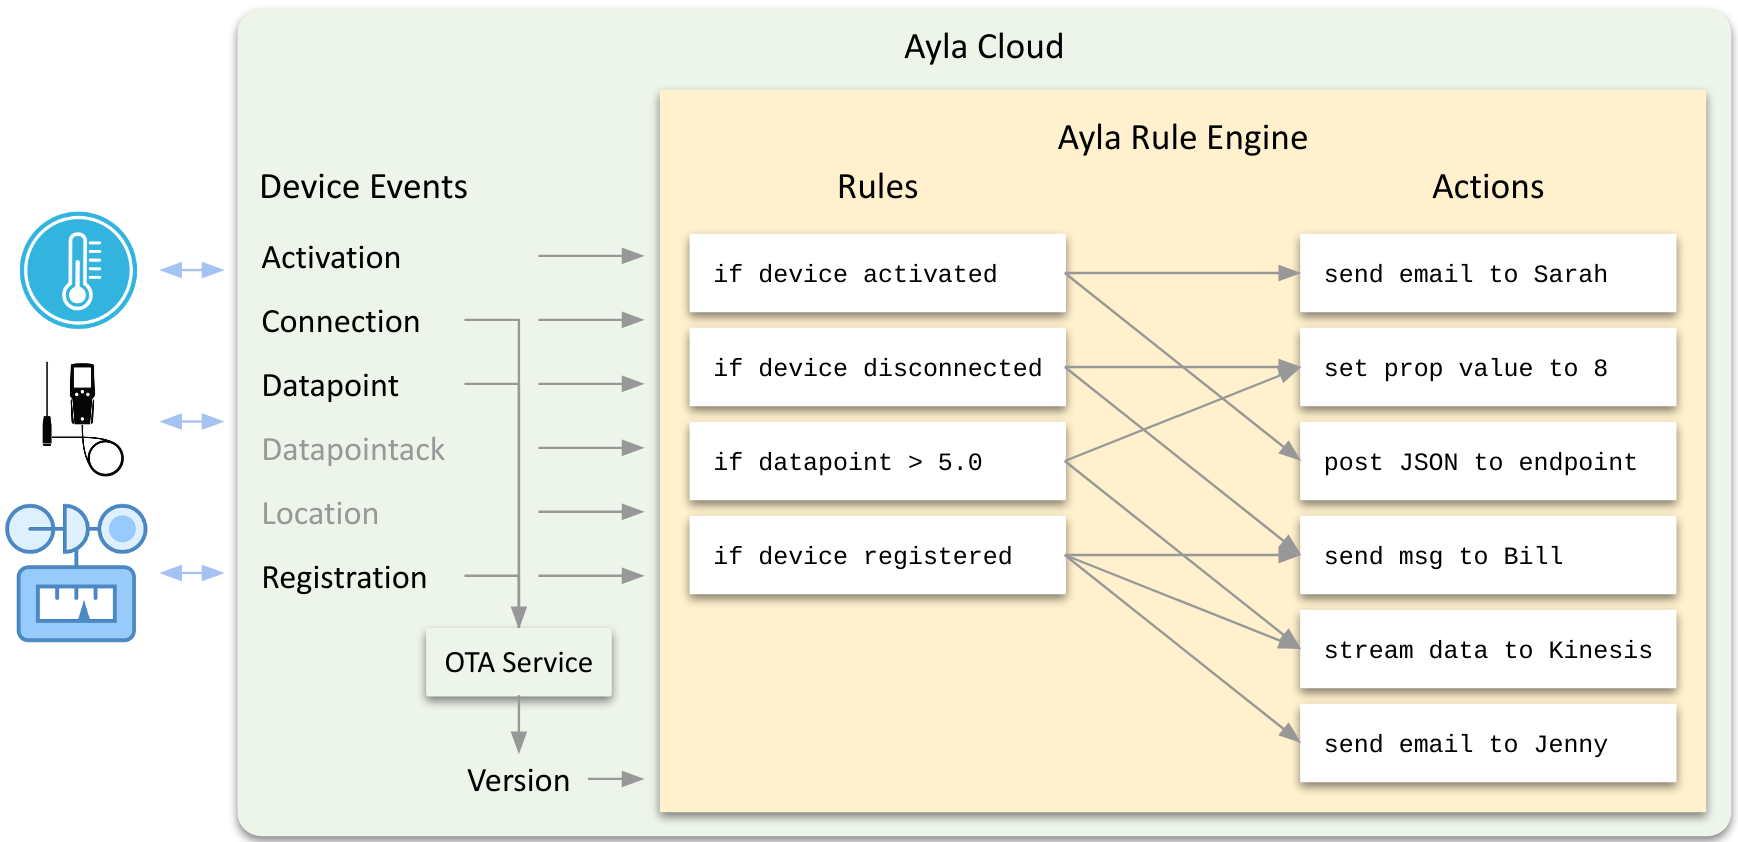
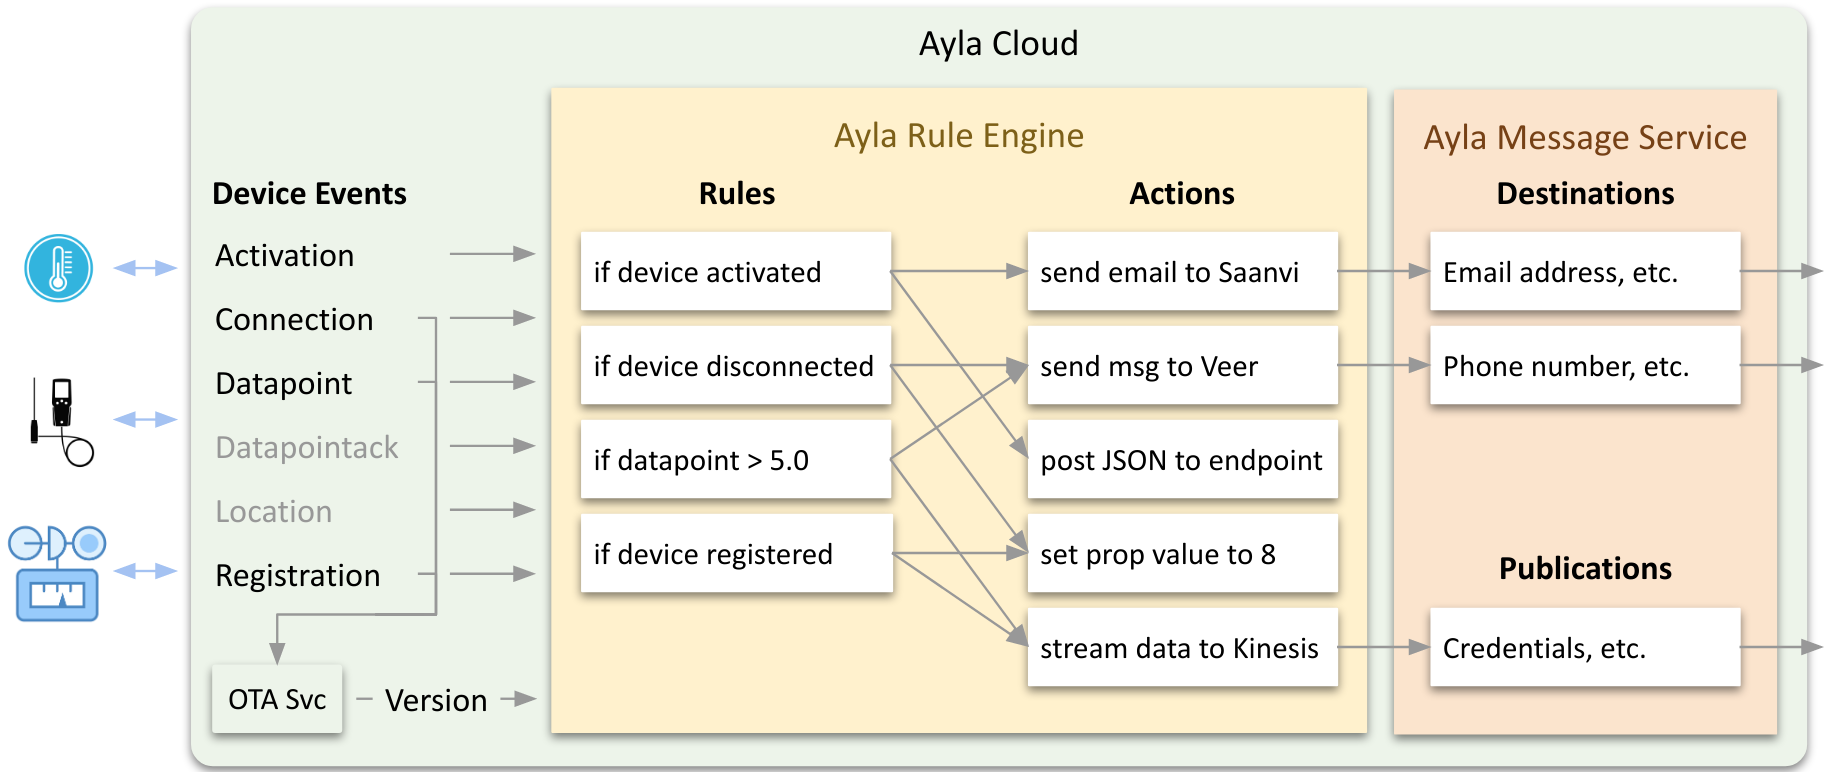
Small changes.

diff --git a/src/tech-notes/00000013/index.md b/src/tech-notes/00000013/index.md
@@ -7,11 +7,9 @@ lastModifiedDate: August 10, 2020
 classesFromPage: has-pagebar
 ---
 
-**Under Construction**
-
 This Tech Note introduces the Ayla Rule Engine (ARE) which, once populated with user-defined rules and actions, evaluates device events in light of rules, and, when rule conditions warrant, performs the associated actions. Consider the following diagram:
 
-<img src="ayla-rule-engine.png" width="750" height="363">
+<img src="ayla-rule-engine.png" width="800" height="338">
 
 As illustrated in the diagram, the Ayla Cloud defines device state changes as device events. Subsystems like the OTA Service may transform these primary events into derived events. The `version` event, for example, indicates that a device's firmware needs to be updated. Ayla passes these events to ARE which leverages user-defined rules to make sense of them. Rules always evaluate to true or false. If a rule evaluates to true, ARE performs the action(s) associated with the rule. In the diagram, for example, ARE sends an email to Sarah and posts data to an endpoint when a particular device becomes active. Rules use Ayla Rule Expression Syntax (ARES) to encode conditional expressions. Actions also use ARES to define parameters. Developers can work with rules and actions via the Rules Service APIs described in the [API Browser](https://docs.aylanetworks.com/cloud-services/api-browser/). OEM users can also work with rules and actions, to a limited extent, via the Ayla Developer Portal.
 
@@ -32,66 +30,124 @@ The device in the diagram includes two properties, `Blue_button` and `Blue_LED`,
 1. The first rule's condition is **not** met, so it does not perform its two associated actions. 
 1. The second rule's condition **is** met, so it performs its two associated actions, sending an email to Yan, and setting `Blue_LED` to 1.
 
-## Creating actions
+## Create actions
 
-An **action** defines a task like `set Blue_LED to 1`. ARE supports several types of actions including `DATAPOINT` and `AMS_EMAIL`. `AMS` stands for Ayla Message Service. To create the actions for the example, follow these steps:
+An **action** defines a task like `set Blue_LED to 0`. ARE supports several types of actions including `DATAPOINT` and `AMS_EMAIL`. (`AMS` stands for Ayla Message Service.) To create the actions for the example, start with these steps:
 
 1. Open the [API Browser](https://docs.aylanetworks.com/cloud-services/api-browser/) in another tab.
 1. Click Accounts, choose a Region, enter email, password, app_id, and app_secret, click Get Tokens, and close the tab.
-1. Click Devices, select a device, and ensure that the list of properties includes `cmd`, `log`, `Blue_LED`, and `Green_LED`.
+1. Click Devices, select a device, and ensure that the list of properties includes `Blue_button`, and `Blue_LED`.
 1. Click Rules Service, and expand `createAction`.
-1. Copy and paste the following into the Request Data textbox, and replace the DSN. You can use `true` or `1` interchangeably.
+
+### Create DATAPOINT actions
+
+1. Copy and paste the following into the Request Data textbox, and replace the DSN. You can use `false` or `0`.
     ```
     {
       "action": {
-        "name": "Set Blue_LED true",
+        "name": "Set Blue_LED 0",
         "type": "DATAPOINT",
         "parameters": {
-          "datapoint": "DATAPOINT(AC000W000000001, Blue_LED) = 1"
+          "datapoint": "DATAPOINT(AC000W006512709, Blue_LED) = 0"
         }
       }
     }
     ```
-    Action parameters define the task. The key, `datapoint`, indicates the type, and the value specifies the task itself:
+    Action `parameters` key, `datapoint`, indicates the type, and the value specifies the task:
     ```
-    DATAPOINT(AC000W000000001, Blue_LED) = 1
+    DATAPOINT(AC000W000000001, Blue_LED) = 0
     ```
-    This ARES expression means "set the `Blue_LED` property on devive `AC000W000000001` to 1.
+    This ARES expression means "set the `Blue_LED` property on devive `AC000W000000001` to 0.
 1. Click Run. The Status Code should indicate 201.
-1. Under Response Data, click `show` to see results.
-1. Repeat to create the other three actions.
-1. Expand `getActions`, click Run, click Show, and find the `action_uuid` for each action. You will need these to create rules below. You might copy and paste the ids into a text file like this:
-    ```
-    Set Blue_LED  true   a1000000-0000-0000-0000-00000000001a
-    Set Blue_LED  false  a0000000-0000-0000-0000-00000000000a
-    Set Green_LED true   b1000000-0000-0000-0000-00000000001b
-    Set Green_LED false  b0000000-0000-0000-0000-00000000000b
-    ```
-
-## Creating rules
-
-A **rule** associates a rule expression (that evaluates to `true` or `false`, like `log == 'off'`) with a list of actions to perform if the expression evaluates to `true`. To create the rules for the example, follow these steps:
-
-1. Expand `createRule`. 
-1. Copy and paste the following into the Request Data textbox, and replace the DSN and action_ids:
+1. Create another action that sets `Blue_LED` to 1:
     ```
     {
-      "rule": {
-        "name": "log == on",
-        "description": "",
-        "expression": "str_equals(DATAPOINT(AC000W000000001,log),'on')",
-        "action_ids": [
-          "a1000000-0000-0000-0000-00000000001a",
-          "b1000000-0000-0000-0000-00000000001b"
-        ]
+      "action": {
+        "name": "Set Blue_LED 1",
+        "type": "DATAPOINT",
+        "parameters": {
+          "datapoint": "DATAPOINT(AC000W006512709, Blue_LED) = 1"
+        }
       }
     }
     ```
-    A rule expression specifies a condition. Expressions that evaluate strings often contain functions like `str_equals` or `str_contains`. Other expressions may not contain functions.
-1. Click Run. The Status Code should indicate 201.
-1. Under Response Data, click `show` to see results.
-1. Repeat to create the other rule.
-1. Expand `getRules`, click Run, click Show, and view each rule object which includes a `rule_uuid` and an array of `action_ids`.
+
+### Create destination
+
+```
+{
+  "destination": {
+    "type": "email",
+    "body": "Destination Body",
+    "deliver_to": "anonz3000@gmail.com",
+    "title": "Destination Title",
+    "provider": "smtp",
+    "user_message": "Desintation User Message",
+    "user_name": "My Name"
+  }
+}
+```
+
+### Create AMS_EMAIL action
+
+```
+{
+  "action": {
+    "name": "Email to Self",
+    "type": "AMS_SMS",
+    "is_abstract": false,
+    "parameters": {
+      "max_actions_per_minute": "5",
+      "foo": "bar",
+      "body": "foo"
+    },
+    "destination_ids": ["a9077ad5-9675-4758-965e-fd49deb70a12"]
+  }
+}
+```
+
+### View actions
+
+Expand `getActions`, click Run, click Show, and find the `action_uuid` for each action. You will need these to create rules below. You might copy and paste the ids into a text file like this:
+
+```
+Name             action_uuid
+Set Blue_LED 0   a1000000-0000-0000-0000-0000000000a1
+Set Blue_LED 1   b2000000-0000-0000-0000-0000000000b2
+Send email       c3000000-0000-0000-0000-0000000000c3
+```
+
+## Creating rules
+
+A **rule** associates a rule expression (that evaluates to `true` or `false`, like `Blue_button == 'off'`) with a list of actions to perform if the expression evaluates to `true`. To create the rules for the example, follow these steps:
+
+```
+{
+  "rule": {
+    "name": "Blue_button == 0",
+    "description": "",
+    "expression": "DATAPOINT(AC000W000000001,Blue_button) == 0",
+    "action_ids": [
+      "a1000000-0000-0000-0000-0000000000a1",
+      "c3000000-0000-0000-0000-0000000000c3"
+    ]
+  }
+}
+```
+
+```
+{
+  "rule": {
+    "name": "Blue_button == 0",
+    "description": "",
+    "expression": "DATAPOINT(AC000W000000001,Blue_button) == 0",
+    "action_ids": [
+      "b2000000-0000-0000-0000-0000000000b2",
+      "c3000000-0000-0000-0000-0000000000c3"
+    ]
+  }
+}
+```
 
 ## Testing
 
